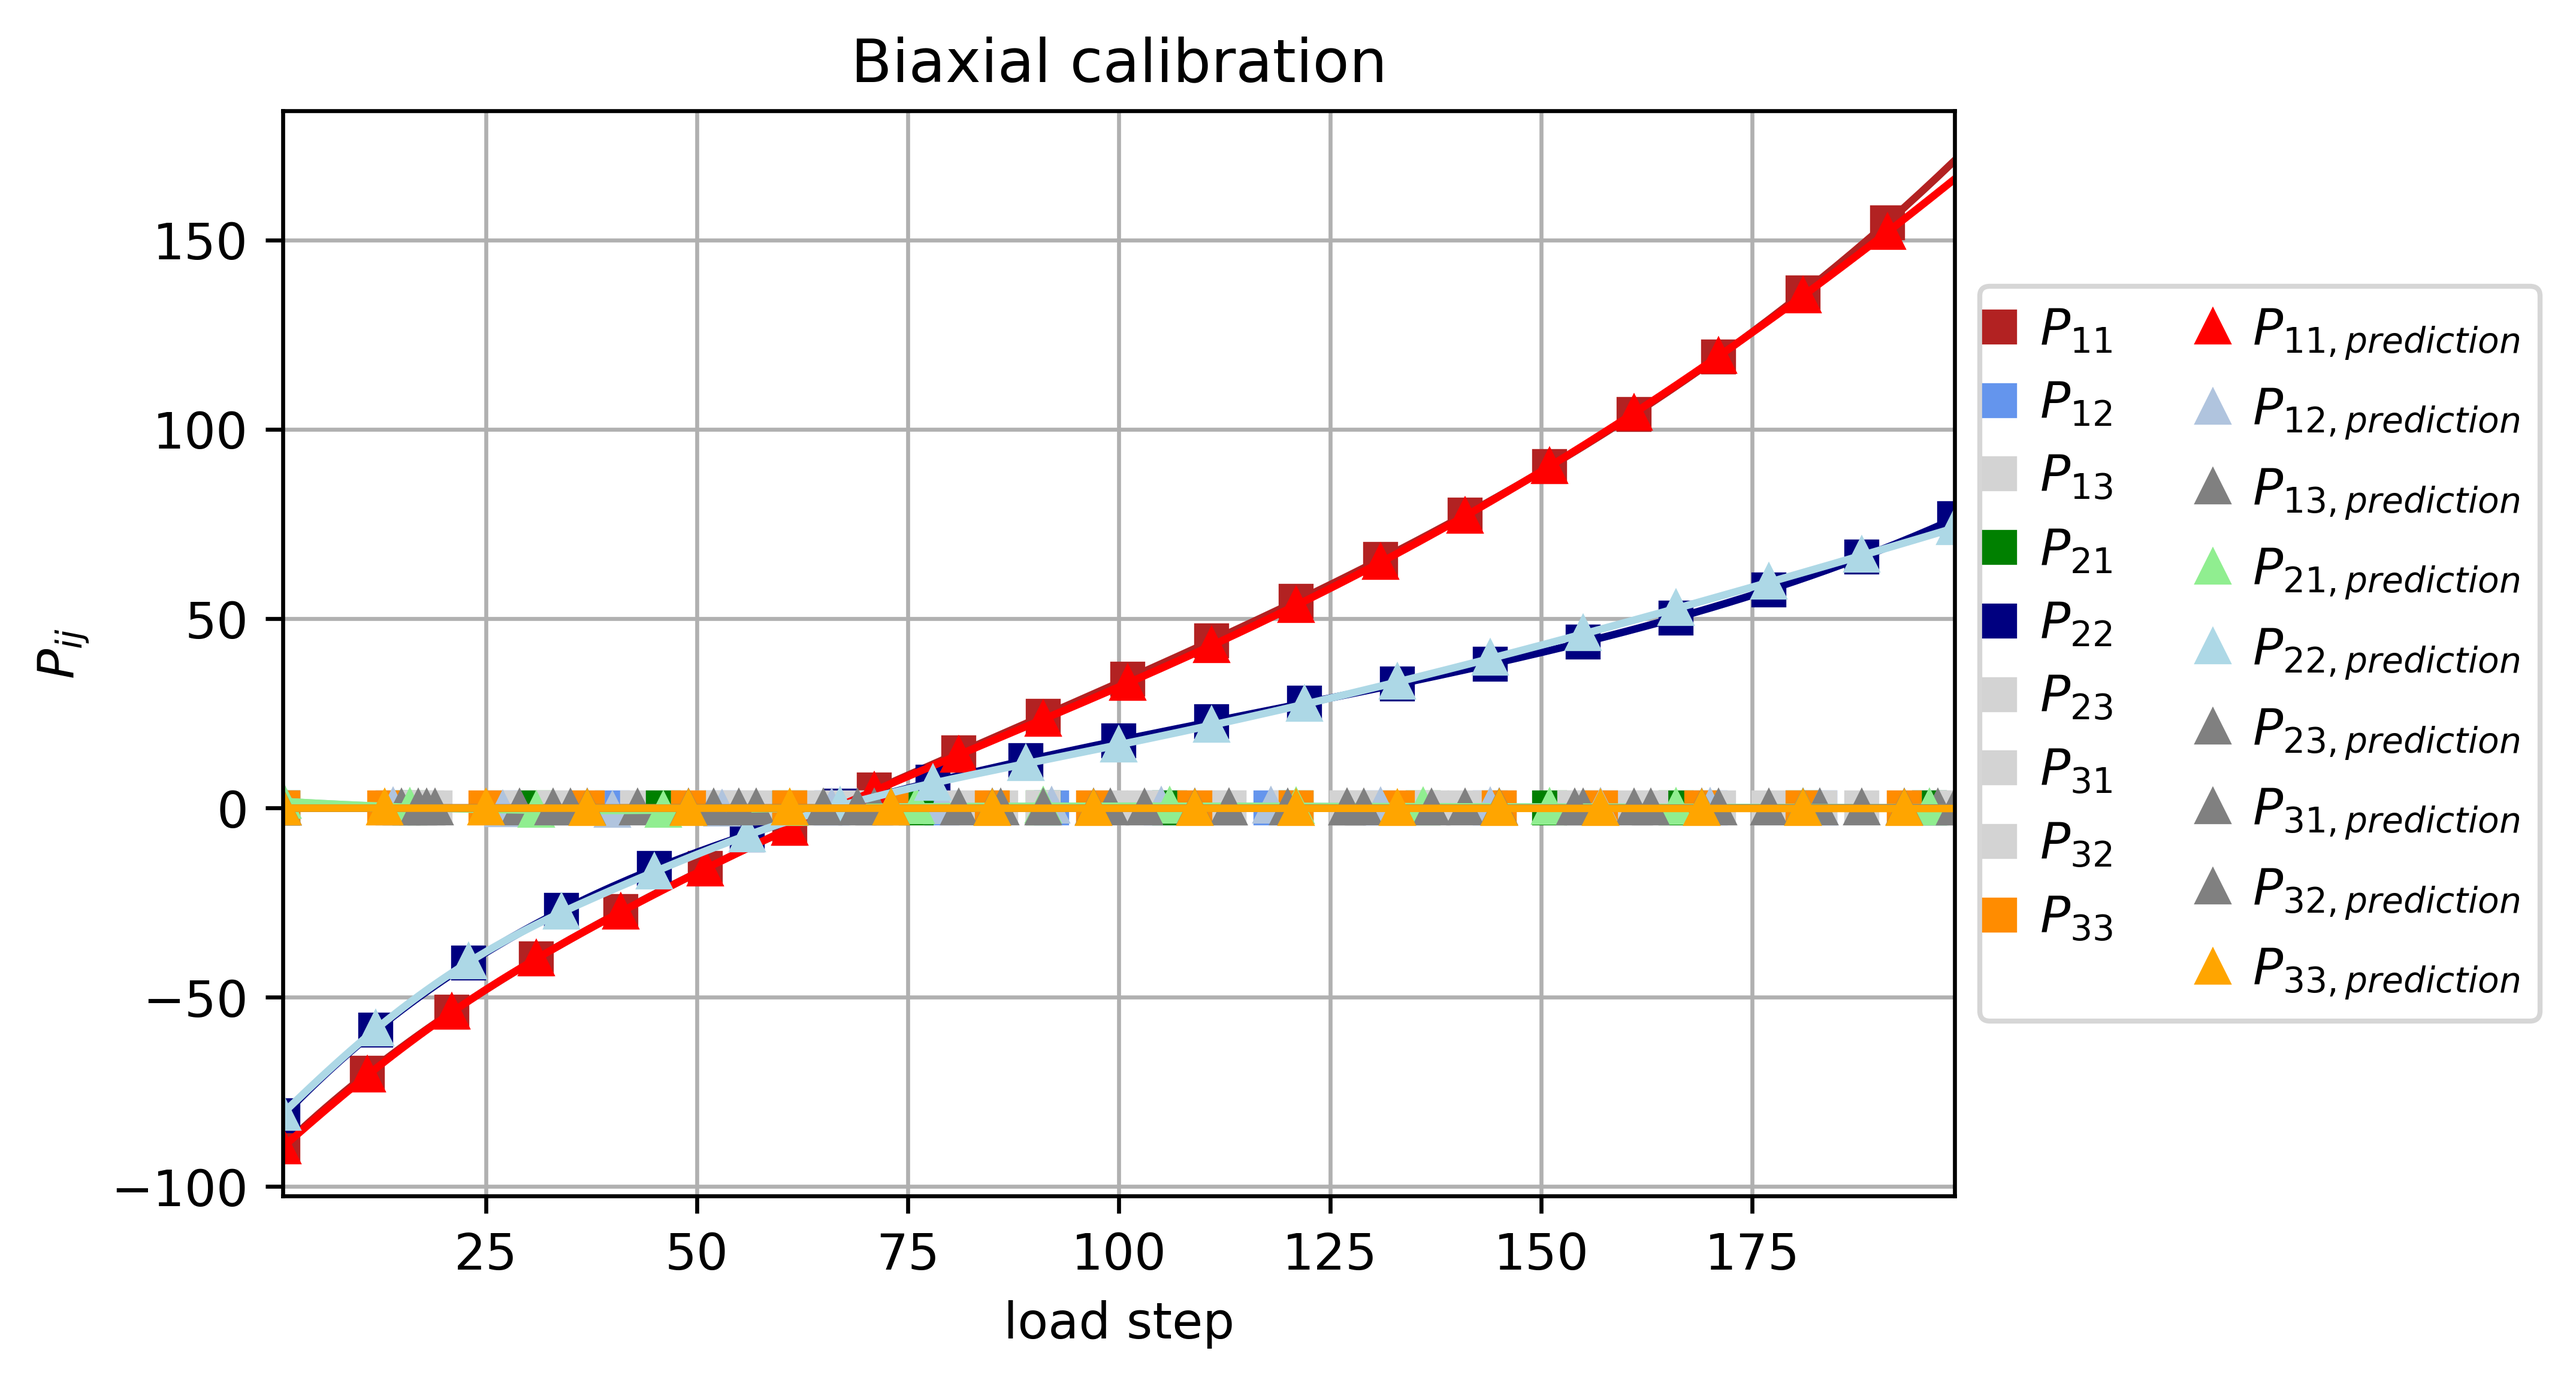
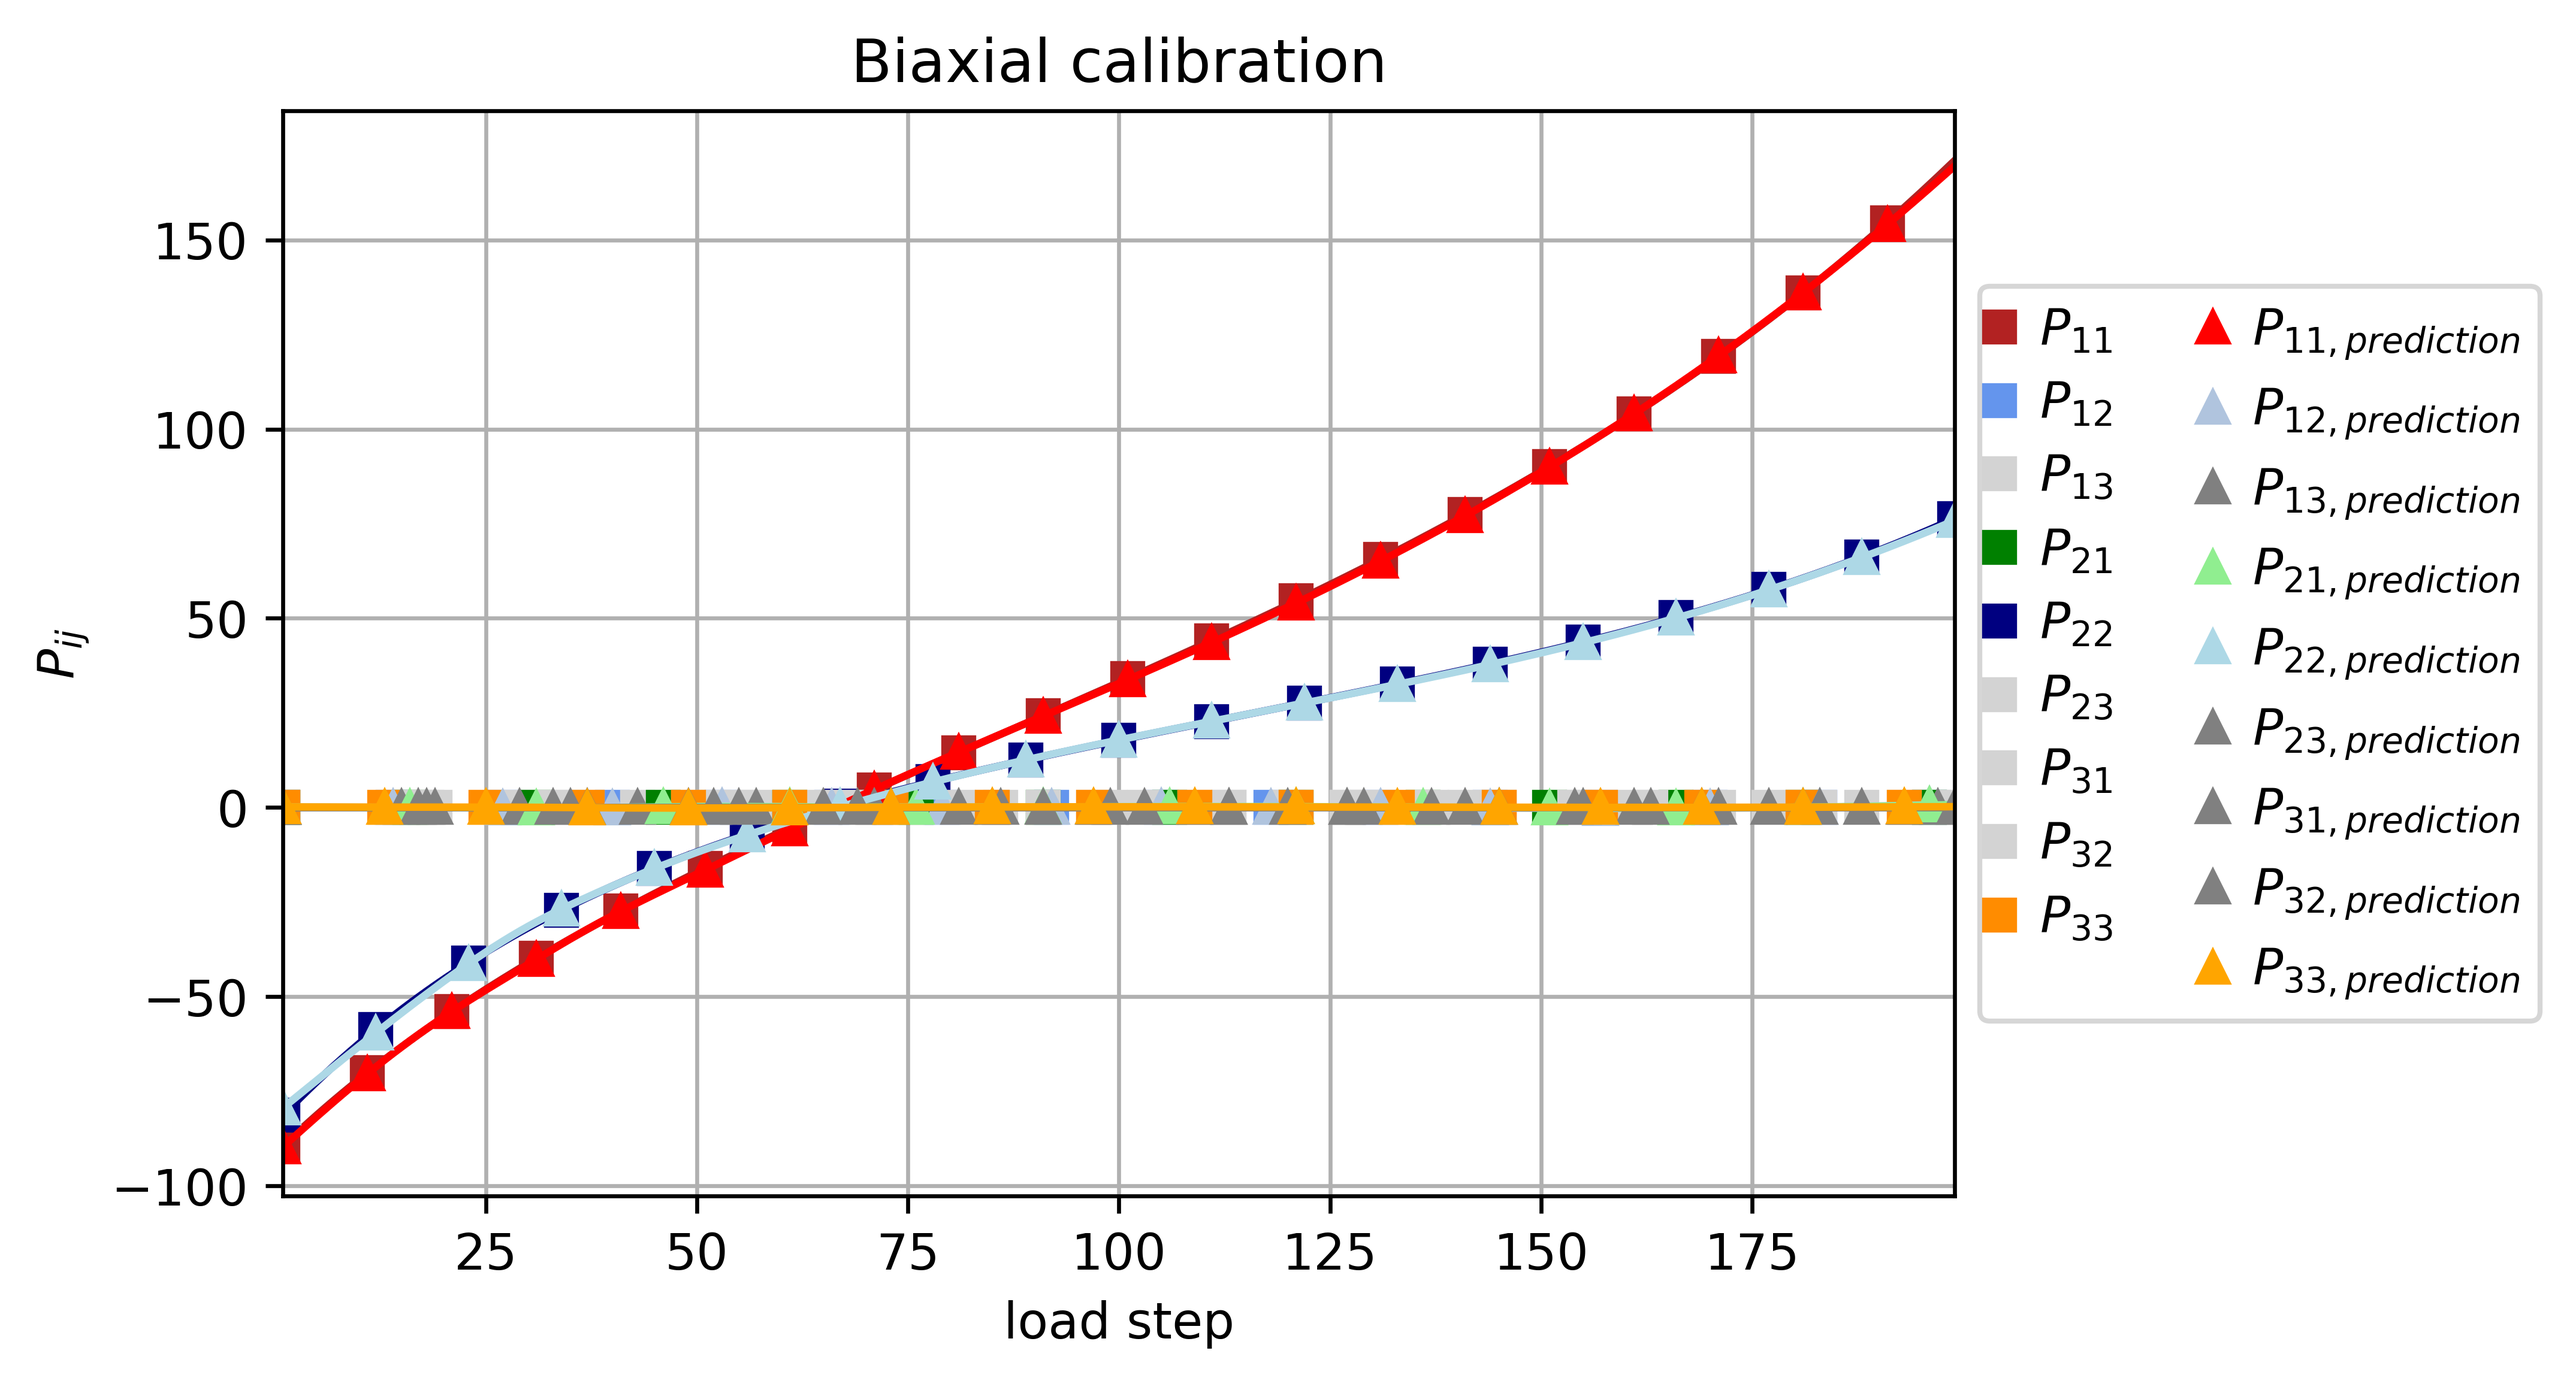
Loss weighting strategy implemented

diff --git a/Task_02/02_hyperelasticity_I/data.py b/Task_02/02_hyperelasticity_I/data.py
@@ -17,24 +17,51 @@ import tensorflow as tf
 from tensorflow.keras import layers
 
 
+# %%
+'''
+pre-processing
+
+'''
+
+def reshape_input(Cs, Ps):
+    batch_size = Cs.shape[0]
+    # reshape to voigt notation
+    cs_tmp = tf.reshape(Cs, [batch_size, 9])
+    ps = tf.reshape(Ps, [batch_size, 9])
+    # drop dependent values
+    cs = tf.concat([cs_tmp[:,:3], cs_tmp[:,4:6], cs_tmp[:,8:]], axis=1)
+    return cs, ps
+
+def get_sample_weights(Ps, batch_sizes):
+    norms = tf.norm(Ps, axis=[1,2])
+    w = np.zeros(norms.shape)
+    for i in range(batch_sizes.shape[0]):
+        il = tf.math.reduce_sum(batch_sizes[:i])
+        iu = tf.math.reduce_sum(batch_sizes[:i+1])
+        
+        w[il:iu] = tf.math.reduce_sum(norms[il:iu]) / batch_sizes[i]
+        
+    return w ** (-1)
+
+
+
 # %%    
 '''
 data import
 
-'''
+''' 
 
 def load_stress_strain_data(paths):
     '''
-    Calls read_txt function and transforms the data into a suitable form for 
-    the NN. The objectivity condition is fulfilled by using using six
+    Calls read_txt function. The objectivity condition is fulfilled by using using six
     indepented components of C instead of nine components of F.
 
     '''
     # initialize lists
     n = len(paths)
-    cs = []
-    ps = []
-    ws = []
+    Cs = []
+    Ps = []
+    Ws = []
     batch_sizes = np.empty(n, dtype='int32')
     # iterate over files
     for i, path in enumerate(paths):
@@ -45,17 +72,20 @@ def load_stress_strain_data(paths):
         # use right Cauchy-Green tensor for fulfillment of objectivity condition
         C = tf.einsum('ikj,ikl->ijl',F,F)
         # reshape matrices to Voigt notation
-        tmp = tf.reshape(C, [batch_sizes[i], 9])
-        cs.append(tf.concat([tmp[:,:3], tmp[:,4:6], tmp[:,8:]], axis=1)) # drop dependent values
-        ps.append(tf.reshape(P, [batch_sizes[i], 9]))
-        ws.append(W)
+        #tmp = tf.reshape(C, [batch_sizes[i], 9])
+        Cs.append(C)
+        Ps.append(P)
+        Ws.append(W)
+        #cs.append(tf.concat([tmp[:,:3], tmp[:,4:6], tmp[:,8:]], axis=1)) # drop dependent values
+        #ps.append(tf.reshape(P, [batch_sizes[i], 9]))
+        #ws.append(W)
         
     # concatenate and convert to tensorflow tensor
-    cs = tf.concat(cs, axis=0)
-    ps = tf.concat(ps, axis=0)
-    ws = tf.concat(ws, axis=0)
+    Cs = tf.concat(Cs, axis=0)
+    Ps = tf.concat(Ps, axis=0)
+    Ws = tf.concat(Ws, axis=0)
         
-    return cs, ps, ws, batch_sizes
+    return Cs, Ps, Ws, batch_sizes
 
 
 

diff --git a/Task_02/02_hyperelasticity_I/main_naive.py b/Task_02/02_hyperelasticity_I/main_naive.py
@@ -50,7 +50,22 @@ paths = [
     'data/calibration/pure_shear.txt',
     'data/calibration/uniaxial.txt'
     ]
-xs, ys, _, batch_sizes = ld.load_stress_strain_data(paths)
+#xs, ys, _, batch_sizes = ld.load_stress_strain_data(paths)
+Cs, Ps, _, batch_sizes = ld.load_stress_strain_data(paths)
+
+# %%
+'''
+Preprocessing
+
+'''
+
+# apply load weighting strategy
+sw = ld.get_sample_weights(Ps, batch_sizes)
+#sw = np.zeros(np.sum(batch_sizes))
+  
+# reshape inputs
+xs, ys = ld.reshape_input(Cs, Ps)
+
 
 # %%   
 """
@@ -62,7 +77,10 @@ t1 = now()
 print(t1)
 
 tf.keras.backend.set_value(model.optimizer.learning_rate, 0.002)
-h = model.fit([xs], [ys, np.zeros([batch_sizes.sum(),6])], epochs=5000, verbose=2)
+h = model.fit([xs], [ys, np.zeros([batch_sizes.sum(),6])], 
+              epochs=5000,
+              verbose=2,
+              sample_weight=sw)
 
 t2 = now()
 print('it took', t2 - t1, '(sec) to calibrate the model')
@@ -113,7 +131,11 @@ fnames = [
 # evaluate each data set separately
 for i, path in enumerate(paths):
     # reference data
-    xs, ys, _, [batch_size] = ld.load_stress_strain_data([path])
+    #xs, ys, _, [batch_size] = ld.load_stress_strain_data([path])
+    Cs, Ps, _, [batch_size] = ld.load_stress_strain_data([path])
+    
+    # reshape
+    xs, ys = ld.reshape_input(Cs, Ps)
     
     # predict using the trained model
     ys_pred, dys_pred = model.predict(xs)
